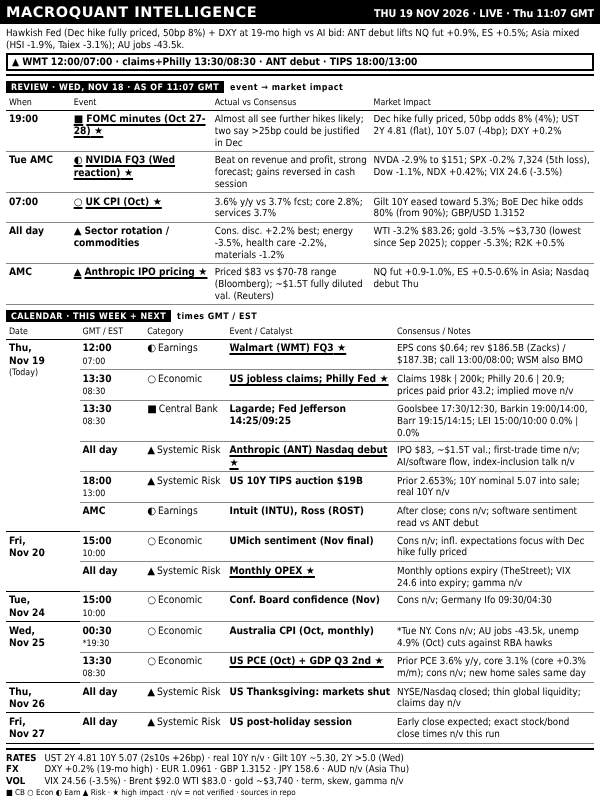
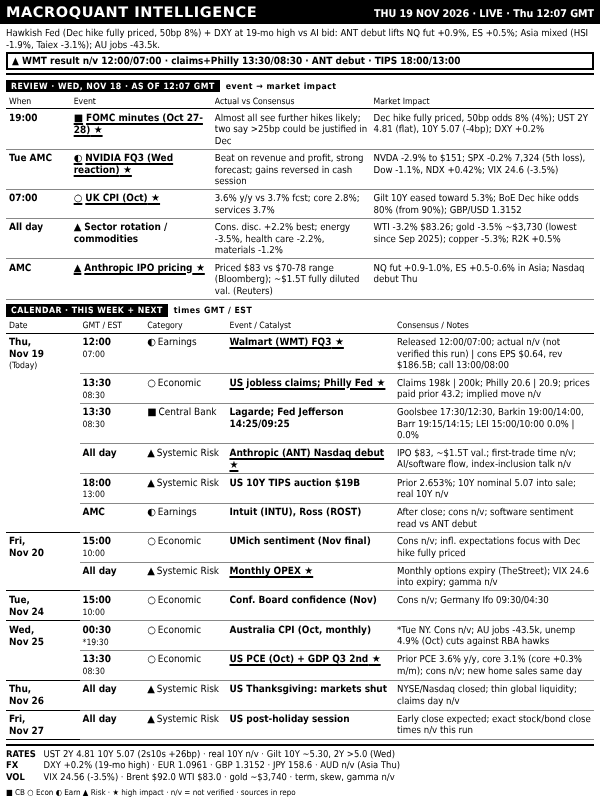
dashboard: THU 19 NOV 2026 LIVE 12:07
Claude-Session: https://claude.ai/code/session_016SJqa73JJqMCDh2vzviYuk

Changed region(s): [[0.0, 0.0312, 0.99, 1.0], [0.0, 0.1875, 0.09, 0.3438], [0.0, 0.6562, 0.09, 0.8125]]

diff --git a/out/dashboard.html b/out/dashboard.html
@@ -38,11 +38,11 @@ table.bd{border-collapse:collapse;width:100%;table-layout:fixed;margin-top:1px}
 </style></head><body>
 <div id="root">
  <div class="hdr"><span class="t">MACROQUANT INTELLIGENCE</span>
-  <span class="r">THU 19 NOV 2026 · LIVE · Thu 11:07 GMT</span></div>
- <div class="ban"><div class="rg">Hawkish Fed (Dec hike fully priced, 50bp 8%) + DXY at 19-mo high vs AI bid: ANT debut lifts NQ fut +0.9%, ES +0.5%; Asia mixed (HSI -1.9%, Taiex -3.1%); AU jobs -43.5k.</div><div class="al">▲ WMT 12:00/07:00 · claims+Philly 13:30/08:30 · ANT debut · TIPS 18:00/13:00</div></div>
- <div class="sl"><span>REVIEW · WED, NOV 18 · AS OF 11:07 GMT</span>event → market impact</div><table class="bd rv"><colgroup><col style="width:11%"><col style="width:24%"><col style="width:27%"><col></colgroup><tr><th>When</th><th>Event</th><th>Actual vs Consensus</th><th>Market Impact</th></tr><tr class="h"><td class="tm"><b>19:00</b></td><td class="ev"><i>■</i>FOMC minutes (Oct 27-28)</td><td class="ac">Almost all see further hikes likely; two say &gt;25bp could be justified in Dec</td><td class="nt">Dec hike fully priced, 50bp odds 8% (4%); UST 2Y 4.81 (flat), 10Y 5.07 (-4bp); DXY +0.2%</td></tr><tr class="h"><td class="tm"><b>Tue AMC</b></td><td class="ev"><i>◐</i>NVIDIA FQ3 (Wed reaction)</td><td class="ac">Beat on revenue and profit, strong forecast; gains reversed in cash session</td><td class="nt">NVDA -2.9% to $151; SPX -0.2% 7,324 (5th loss), Dow -1.1%, NDX +0.42%; VIX 24.6 (-3.5%)</td></tr><tr class="h"><td class="tm"><b>07:00</b></td><td class="ev"><i>○</i>UK CPI (Oct)</td><td class="ac">3.6% y/y vs 3.7% fcst; core 2.8%; services 3.7%</td><td class="nt">Gilt 10Y eased toward 5.3%; BoE Dec hike odds 80% (from 90%); GBP/USD 1.3152</td></tr><tr><td class="tm"><b>All day</b></td><td class="ev"><i>▲</i>Sector rotation / commodities</td><td class="ac">Cons. disc. +2.2% best; energy -3.5%, health care -2.2%, materials -1.2%</td><td class="nt">WTI -3.2% $83.26; gold -3.5% ~$3,730 (lowest since Sep 2025); copper -5.3%; R2K +0.5%</td></tr><tr class="h"><td class="tm"><b>AMC</b></td><td class="ev"><i>▲</i>Anthropic IPO pricing</td><td class="ac">Priced $83 vs $70-78 range (Bloomberg); ~$1.5T fully diluted val. (Reuters)</td><td class="nt">NQ fut +0.9-1.0%, ES +0.5-0.6% in Asia; Nasdaq debut Thu</td></tr></table>
+  <span class="r">THU 19 NOV 2026 · LIVE · Thu 12:07 GMT</span></div>
+ <div class="ban"><div class="rg">Hawkish Fed (Dec hike fully priced, 50bp 8%) + DXY at 19-mo high vs AI bid: ANT debut lifts NQ fut +0.9%, ES +0.5%; Asia mixed (HSI -1.9%, Taiex -3.1%); AU jobs -43.5k.</div><div class="al">▲ WMT result n/v 12:00/07:00 · claims+Philly 13:30/08:30 · ANT debut · TIPS 18:00/13:00</div></div>
+ <div class="sl"><span>REVIEW · WED, NOV 18 · AS OF 12:07 GMT</span>event → market impact</div><table class="bd rv"><colgroup><col style="width:11%"><col style="width:24%"><col style="width:27%"><col></colgroup><tr><th>When</th><th>Event</th><th>Actual vs Consensus</th><th>Market Impact</th></tr><tr class="h"><td class="tm"><b>19:00</b></td><td class="ev"><i>■</i>FOMC minutes (Oct 27-28)</td><td class="ac">Almost all see further hikes likely; two say &gt;25bp could be justified in Dec</td><td class="nt">Dec hike fully priced, 50bp odds 8% (4%); UST 2Y 4.81 (flat), 10Y 5.07 (-4bp); DXY +0.2%</td></tr><tr class="h"><td class="tm"><b>Tue AMC</b></td><td class="ev"><i>◐</i>NVIDIA FQ3 (Wed reaction)</td><td class="ac">Beat on revenue and profit, strong forecast; gains reversed in cash session</td><td class="nt">NVDA -2.9% to $151; SPX -0.2% 7,324 (5th loss), Dow -1.1%, NDX +0.42%; VIX 24.6 (-3.5%)</td></tr><tr class="h"><td class="tm"><b>07:00</b></td><td class="ev"><i>○</i>UK CPI (Oct)</td><td class="ac">3.6% y/y vs 3.7% fcst; core 2.8%; services 3.7%</td><td class="nt">Gilt 10Y eased toward 5.3%; BoE Dec hike odds 80% (from 90%); GBP/USD 1.3152</td></tr><tr><td class="tm"><b>All day</b></td><td class="ev"><i>▲</i>Sector rotation / commodities</td><td class="ac">Cons. disc. +2.2% best; energy -3.5%, health care -2.2%, materials -1.2%</td><td class="nt">WTI -3.2% $83.26; gold -3.5% ~$3,730 (lowest since Sep 2025); copper -5.3%; R2K +0.5%</td></tr><tr class="h"><td class="tm"><b>AMC</b></td><td class="ev"><i>▲</i>Anthropic IPO pricing</td><td class="ac">Priced $83 vs $70-78 range (Bloomberg); ~$1.5T fully diluted val. (Reuters)</td><td class="nt">NQ fut +0.9-1.0%, ES +0.5-0.6% in Asia; Nasdaq debut Thu</td></tr></table>
  <div class="sl"><span>CALENDAR · THIS WEEK + NEXT</span>times GMT / EST</div>
- <table class="bd"><colgroup><col style="width:12.5%"><col style="width:11%"><col style="width:14%"><col style="width:28.5%"><col></colgroup><tr><th>Date</th><th>GMT / EST</th><th>Category</th><th>Event / Catalyst</th><th>Consensus / Notes</th></tr><tr class="g0 h"><td class="dt" rowspan="6">Thu,<br>Nov&nbsp;19<span class="tg">(Today)</span></td><td class="tm"><b>12:00</b><span>07:00</span></td><td class="ct"><i>◐</i>Earnings</td><td class="ev">Walmart (WMT) FQ3</td><td class="nt">EPS cons $0.64; rev $186.5B (Zacks) / $187.3B; call 13:00/08:00; WSM also BMO</td></tr><tr class="h"><td class="tm"><b>13:30</b><span>08:30</span></td><td class="ct"><i>○</i>Economic</td><td class="ev">US jobless claims; Philly Fed</td><td class="nt">Claims 198k | 200k; Philly 20.6 | 20.9; prices paid prior 43.2; implied move n/v</td></tr><tr class=""><td class="tm"><b>13:30</b><span>08:30</span></td><td class="ct"><i>■</i>Central Bank</td><td class="ev">Lagarde; Fed Jefferson 14:25/09:25</td><td class="nt">Goolsbee 17:30/12:30, Barkin 19:00/14:00, Barr 19:15/14:15; LEI 15:00/10:00 0.0% | 0.0%</td></tr><tr class="h"><td class="tm"><b>All day</b></td><td class="ct"><i>▲</i>Systemic Risk</td><td class="ev">Anthropic (ANT) Nasdaq debut</td><td class="nt">IPO $83, ~$1.5T val.; first-trade time n/v; AI/software flow, index-inclusion talk n/v</td></tr><tr class=""><td class="tm"><b>18:00</b><span>13:00</span></td><td class="ct"><i>▲</i>Systemic Risk</td><td class="ev">US 10Y TIPS auction $19B</td><td class="nt">Prior 2.653%; 10Y nominal 5.07 into sale; real 10Y n/v</td></tr><tr class=""><td class="tm"><b>AMC</b></td><td class="ct"><i>◐</i>Earnings</td><td class="ev">Intuit (INTU), Ross (ROST)</td><td class="nt">After close; cons n/v; software sentiment read vs ANT debut</td></tr><tr class="g0"><td class="dt" rowspan="2">Fri,<br>Nov&nbsp;20</td><td class="tm"><b>15:00</b><span>10:00</span></td><td class="ct"><i>○</i>Economic</td><td class="ev">UMich sentiment (Nov final)</td><td class="nt">Cons n/v; infl. expectations focus with Dec hike fully priced</td></tr><tr class="h"><td class="tm"><b>All day</b></td><td class="ct"><i>▲</i>Systemic Risk</td><td class="ev">Monthly OPEX</td><td class="nt">Monthly options expiry (TheStreet); VIX 24.6 into expiry; gamma n/v</td></tr><tr class="g0"><td class="dt" rowspan="1">Tue,<br>Nov&nbsp;24</td><td class="tm"><b>15:00</b><span>10:00</span></td><td class="ct"><i>○</i>Economic</td><td class="ev">Conf. Board confidence (Nov)</td><td class="nt">Cons n/v; Germany Ifo 09:30/04:30</td></tr><tr class="g0"><td class="dt" rowspan="2">Wed,<br>Nov&nbsp;25</td><td class="tm"><b>00:30</b><span>*19:30</span></td><td class="ct"><i>○</i>Economic</td><td class="ev">Australia CPI (Oct, monthly)</td><td class="nt">*Tue NY. Cons n/v; AU jobs -43.5k, unemp 4.9% (Oct) cuts against RBA hawks</td></tr><tr class="h"><td class="tm"><b>13:30</b><span>08:30</span></td><td class="ct"><i>○</i>Economic</td><td class="ev">US PCE (Oct) + GDP Q3 2nd</td><td class="nt">Prior PCE 3.6% y/y, core 3.1% (core +0.3% m/m); cons n/v; new home sales same day</td></tr><tr class="g0"><td class="dt" rowspan="1">Thu,<br>Nov&nbsp;26</td><td class="tm"><b>All day</b></td><td class="ct"><i>▲</i>Systemic Risk</td><td class="ev">US Thanksgiving: markets shut</td><td class="nt">NYSE/Nasdaq closed; thin global liquidity; claims day n/v</td></tr><tr class="g0"><td class="dt" rowspan="1">Fri,<br>Nov&nbsp;27</td><td class="tm"><b>All day</b></td><td class="ct"><i>▲</i>Systemic Risk</td><td class="ev">US post-holiday session</td><td class="nt">Early close expected; exact stock/bond close times n/v this run</td></tr></table>
+ <table class="bd"><colgroup><col style="width:12.5%"><col style="width:11%"><col style="width:14%"><col style="width:28.5%"><col></colgroup><tr><th>Date</th><th>GMT / EST</th><th>Category</th><th>Event / Catalyst</th><th>Consensus / Notes</th></tr><tr class="g0 h"><td class="dt" rowspan="6">Thu,<br>Nov&nbsp;19<span class="tg">(Today)</span></td><td class="tm"><b>12:00</b><span>07:00</span></td><td class="ct"><i>◐</i>Earnings</td><td class="ev">Walmart (WMT) FQ3</td><td class="nt">Released 12:00/07:00; actual n/v (not verified this run) | cons EPS $0.64, rev $186.5B; call 13:00/08:00</td></tr><tr class="h"><td class="tm"><b>13:30</b><span>08:30</span></td><td class="ct"><i>○</i>Economic</td><td class="ev">US jobless claims; Philly Fed</td><td class="nt">Claims 198k | 200k; Philly 20.6 | 20.9; prices paid prior 43.2; implied move n/v</td></tr><tr class=""><td class="tm"><b>13:30</b><span>08:30</span></td><td class="ct"><i>■</i>Central Bank</td><td class="ev">Lagarde; Fed Jefferson 14:25/09:25</td><td class="nt">Goolsbee 17:30/12:30, Barkin 19:00/14:00, Barr 19:15/14:15; LEI 15:00/10:00 0.0% | 0.0%</td></tr><tr class="h"><td class="tm"><b>All day</b></td><td class="ct"><i>▲</i>Systemic Risk</td><td class="ev">Anthropic (ANT) Nasdaq debut</td><td class="nt">IPO $83, ~$1.5T val.; first-trade time n/v; AI/software flow, index-inclusion talk n/v</td></tr><tr class=""><td class="tm"><b>18:00</b><span>13:00</span></td><td class="ct"><i>▲</i>Systemic Risk</td><td class="ev">US 10Y TIPS auction $19B</td><td class="nt">Prior 2.653%; 10Y nominal 5.07 into sale; real 10Y n/v</td></tr><tr class=""><td class="tm"><b>AMC</b></td><td class="ct"><i>◐</i>Earnings</td><td class="ev">Intuit (INTU), Ross (ROST)</td><td class="nt">After close; cons n/v; software sentiment read vs ANT debut</td></tr><tr class="g0"><td class="dt" rowspan="2">Fri,<br>Nov&nbsp;20</td><td class="tm"><b>15:00</b><span>10:00</span></td><td class="ct"><i>○</i>Economic</td><td class="ev">UMich sentiment (Nov final)</td><td class="nt">Cons n/v; infl. expectations focus with Dec hike fully priced</td></tr><tr class="h"><td class="tm"><b>All day</b></td><td class="ct"><i>▲</i>Systemic Risk</td><td class="ev">Monthly OPEX</td><td class="nt">Monthly options expiry (TheStreet); VIX 24.6 into expiry; gamma n/v</td></tr><tr class="g0"><td class="dt" rowspan="1">Tue,<br>Nov&nbsp;24</td><td class="tm"><b>15:00</b><span>10:00</span></td><td class="ct"><i>○</i>Economic</td><td class="ev">Conf. Board confidence (Nov)</td><td class="nt">Cons n/v; Germany Ifo 09:30/04:30</td></tr><tr class="g0"><td class="dt" rowspan="2">Wed,<br>Nov&nbsp;25</td><td class="tm"><b>00:30</b><span>*19:30</span></td><td class="ct"><i>○</i>Economic</td><td class="ev">Australia CPI (Oct, monthly)</td><td class="nt">*Tue NY. Cons n/v; AU jobs -43.5k, unemp 4.9% (Oct) cuts against RBA hawks</td></tr><tr class="h"><td class="tm"><b>13:30</b><span>08:30</span></td><td class="ct"><i>○</i>Economic</td><td class="ev">US PCE (Oct) + GDP Q3 2nd</td><td class="nt">Prior PCE 3.6% y/y, core 3.1% (core +0.3% m/m); cons n/v; new home sales same day</td></tr><tr class="g0"><td class="dt" rowspan="1">Thu,<br>Nov&nbsp;26</td><td class="tm"><b>All day</b></td><td class="ct"><i>▲</i>Systemic Risk</td><td class="ev">US Thanksgiving: markets shut</td><td class="nt">NYSE/Nasdaq closed; thin global liquidity; claims day n/v</td></tr><tr class="g0"><td class="dt" rowspan="1">Fri,<br>Nov&nbsp;27</td><td class="tm"><b>All day</b></td><td class="ct"><i>▲</i>Systemic Risk</td><td class="ev">US post-holiday session</td><td class="nt">Early close expected; exact stock/bond close times n/v this run</td></tr></table>
  <div class="lv"><div><b>RATES</b>UST 2Y 4.81 10Y 5.07 (2s10s +26bp) · real 10Y n/v · Gilt 10Y ~5.30, 2Y &gt;5.0 (Wed)</div><div><b>FX</b>DXY +0.2% (19-mo high) · EUR 1.0961 · GBP 1.3152 · JPY 158.6 · AUD n/v (Asia Thu)</div><div><b>VOL</b>VIX 24.56 (-3.5%) · Brent $92.0 WTI $83.0 · gold ~$3,740 · term, skew, gamma n/v</div></div>
 </div>
 <div class="foot">■ CB ○ Econ ◐ Earn ▲ Risk · ★ high impact · n/v = not verified · sources in repo</div>
